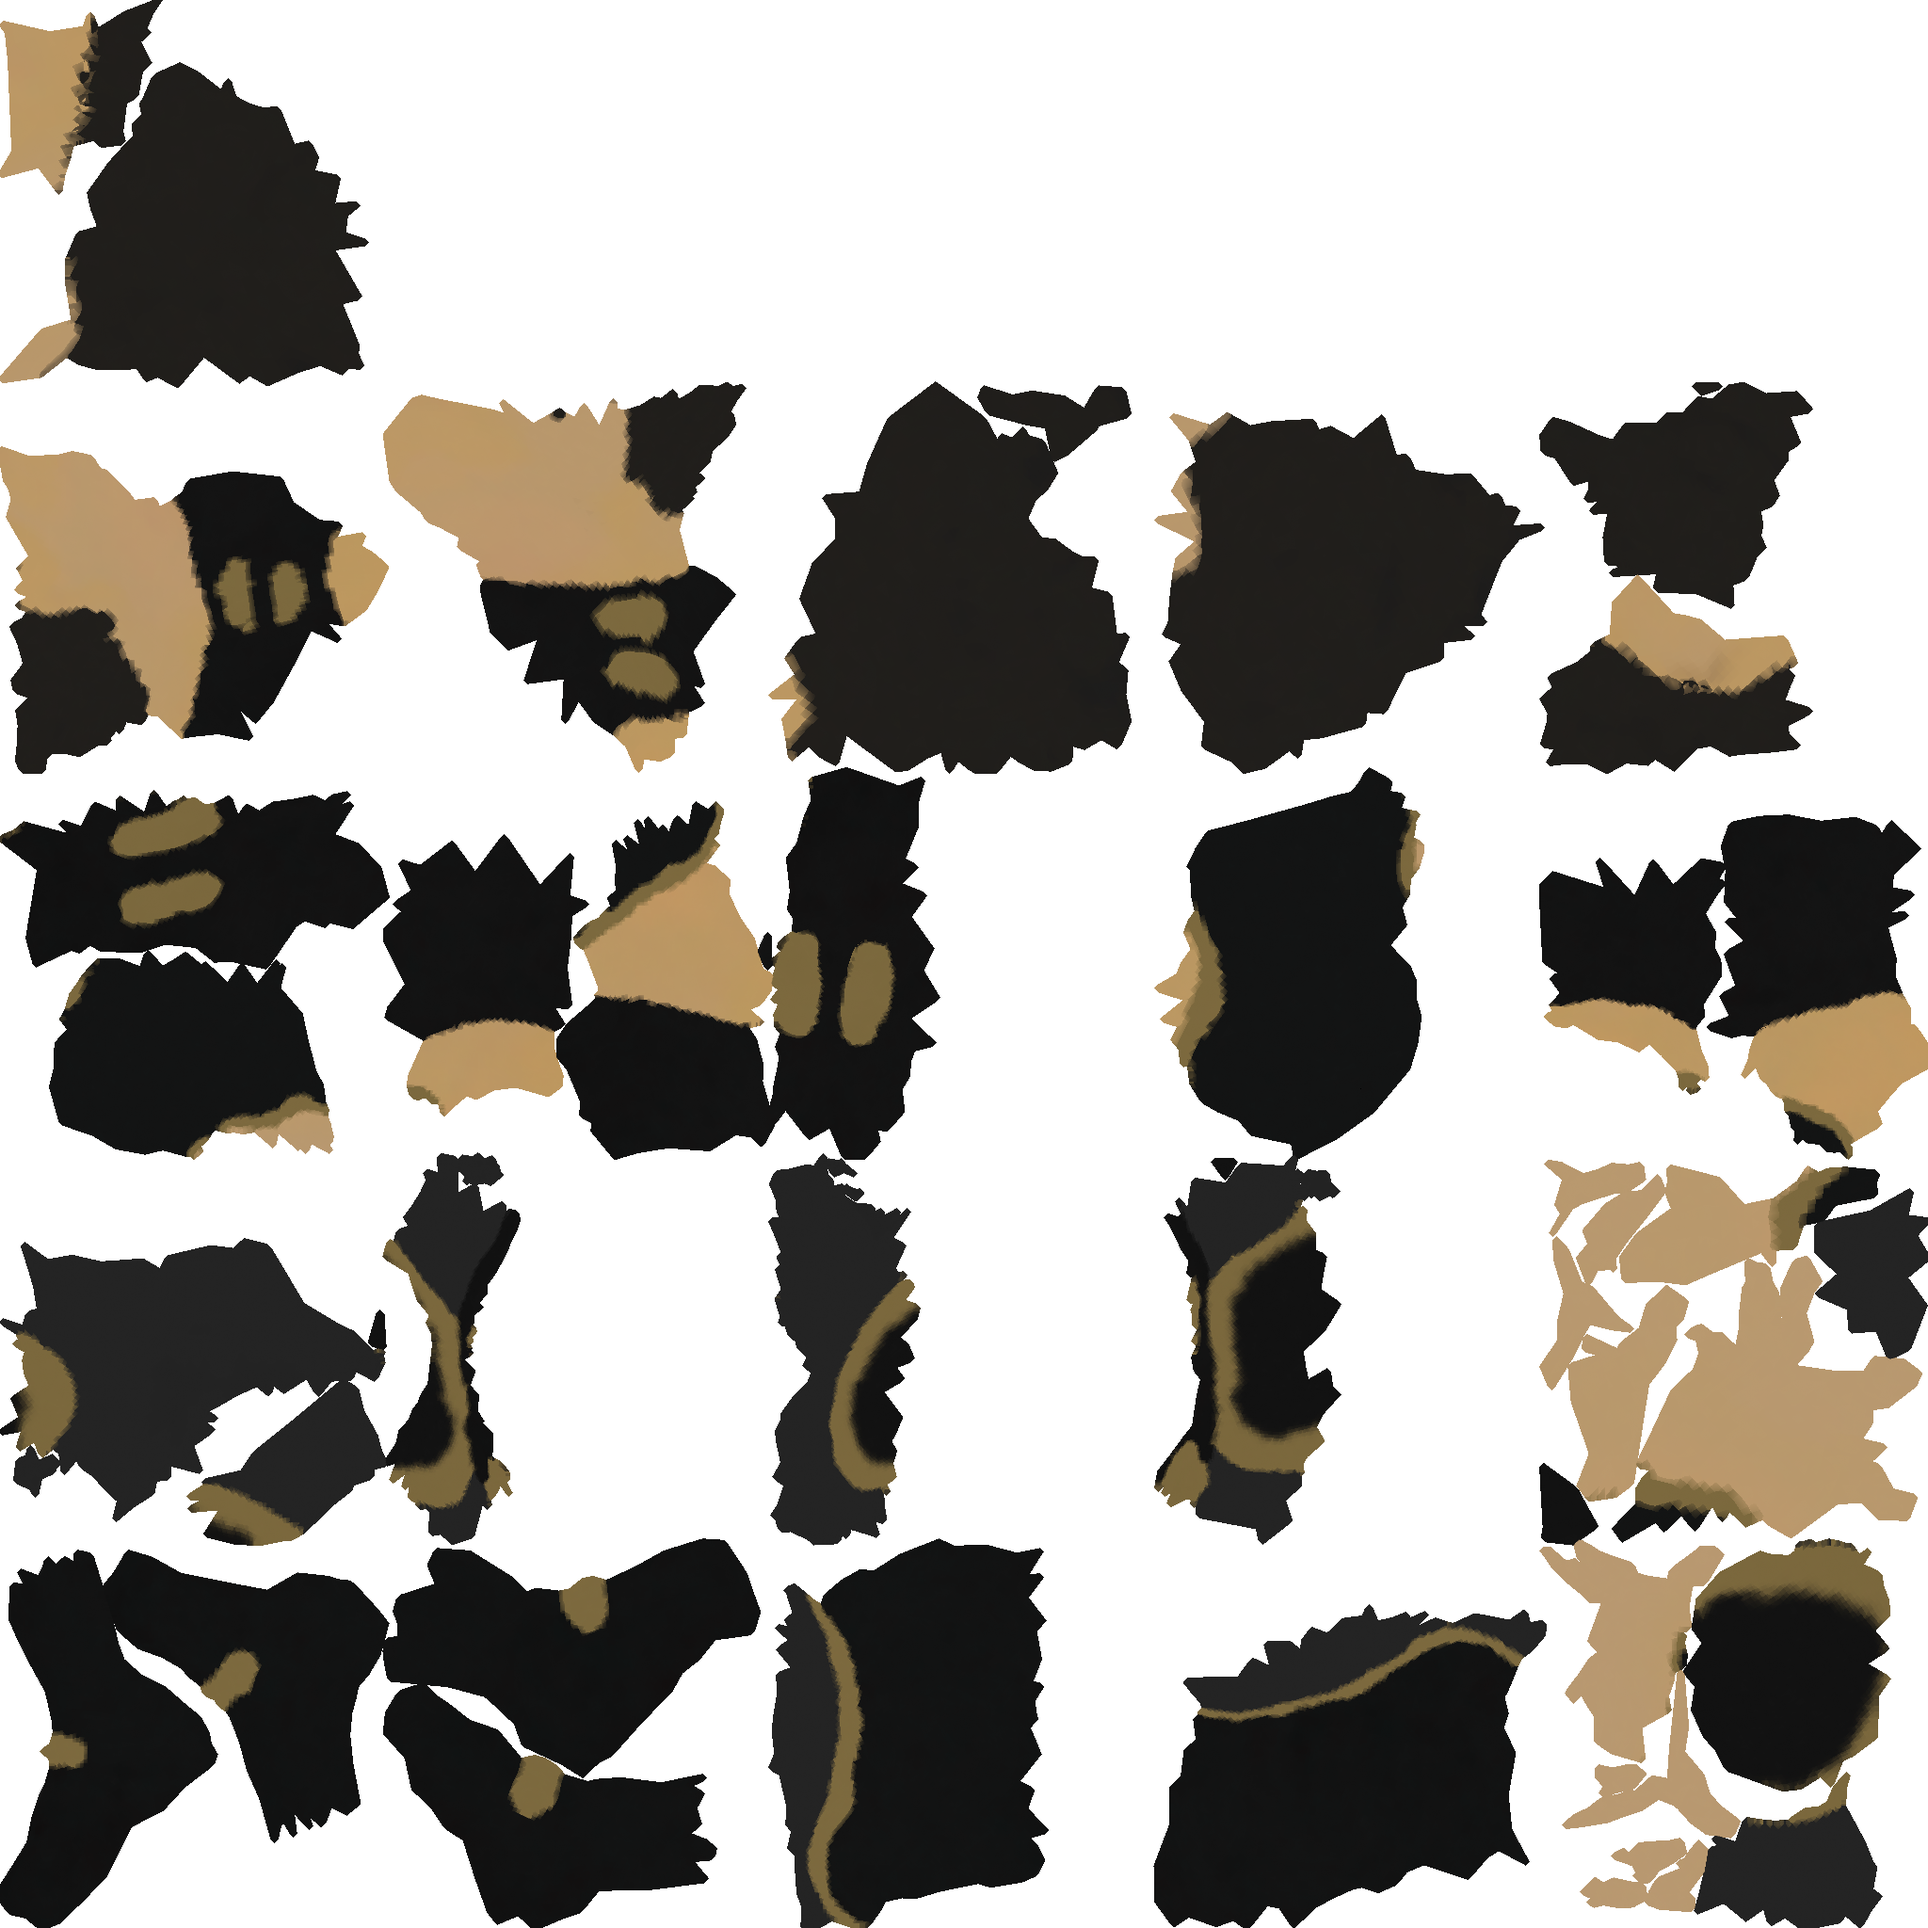
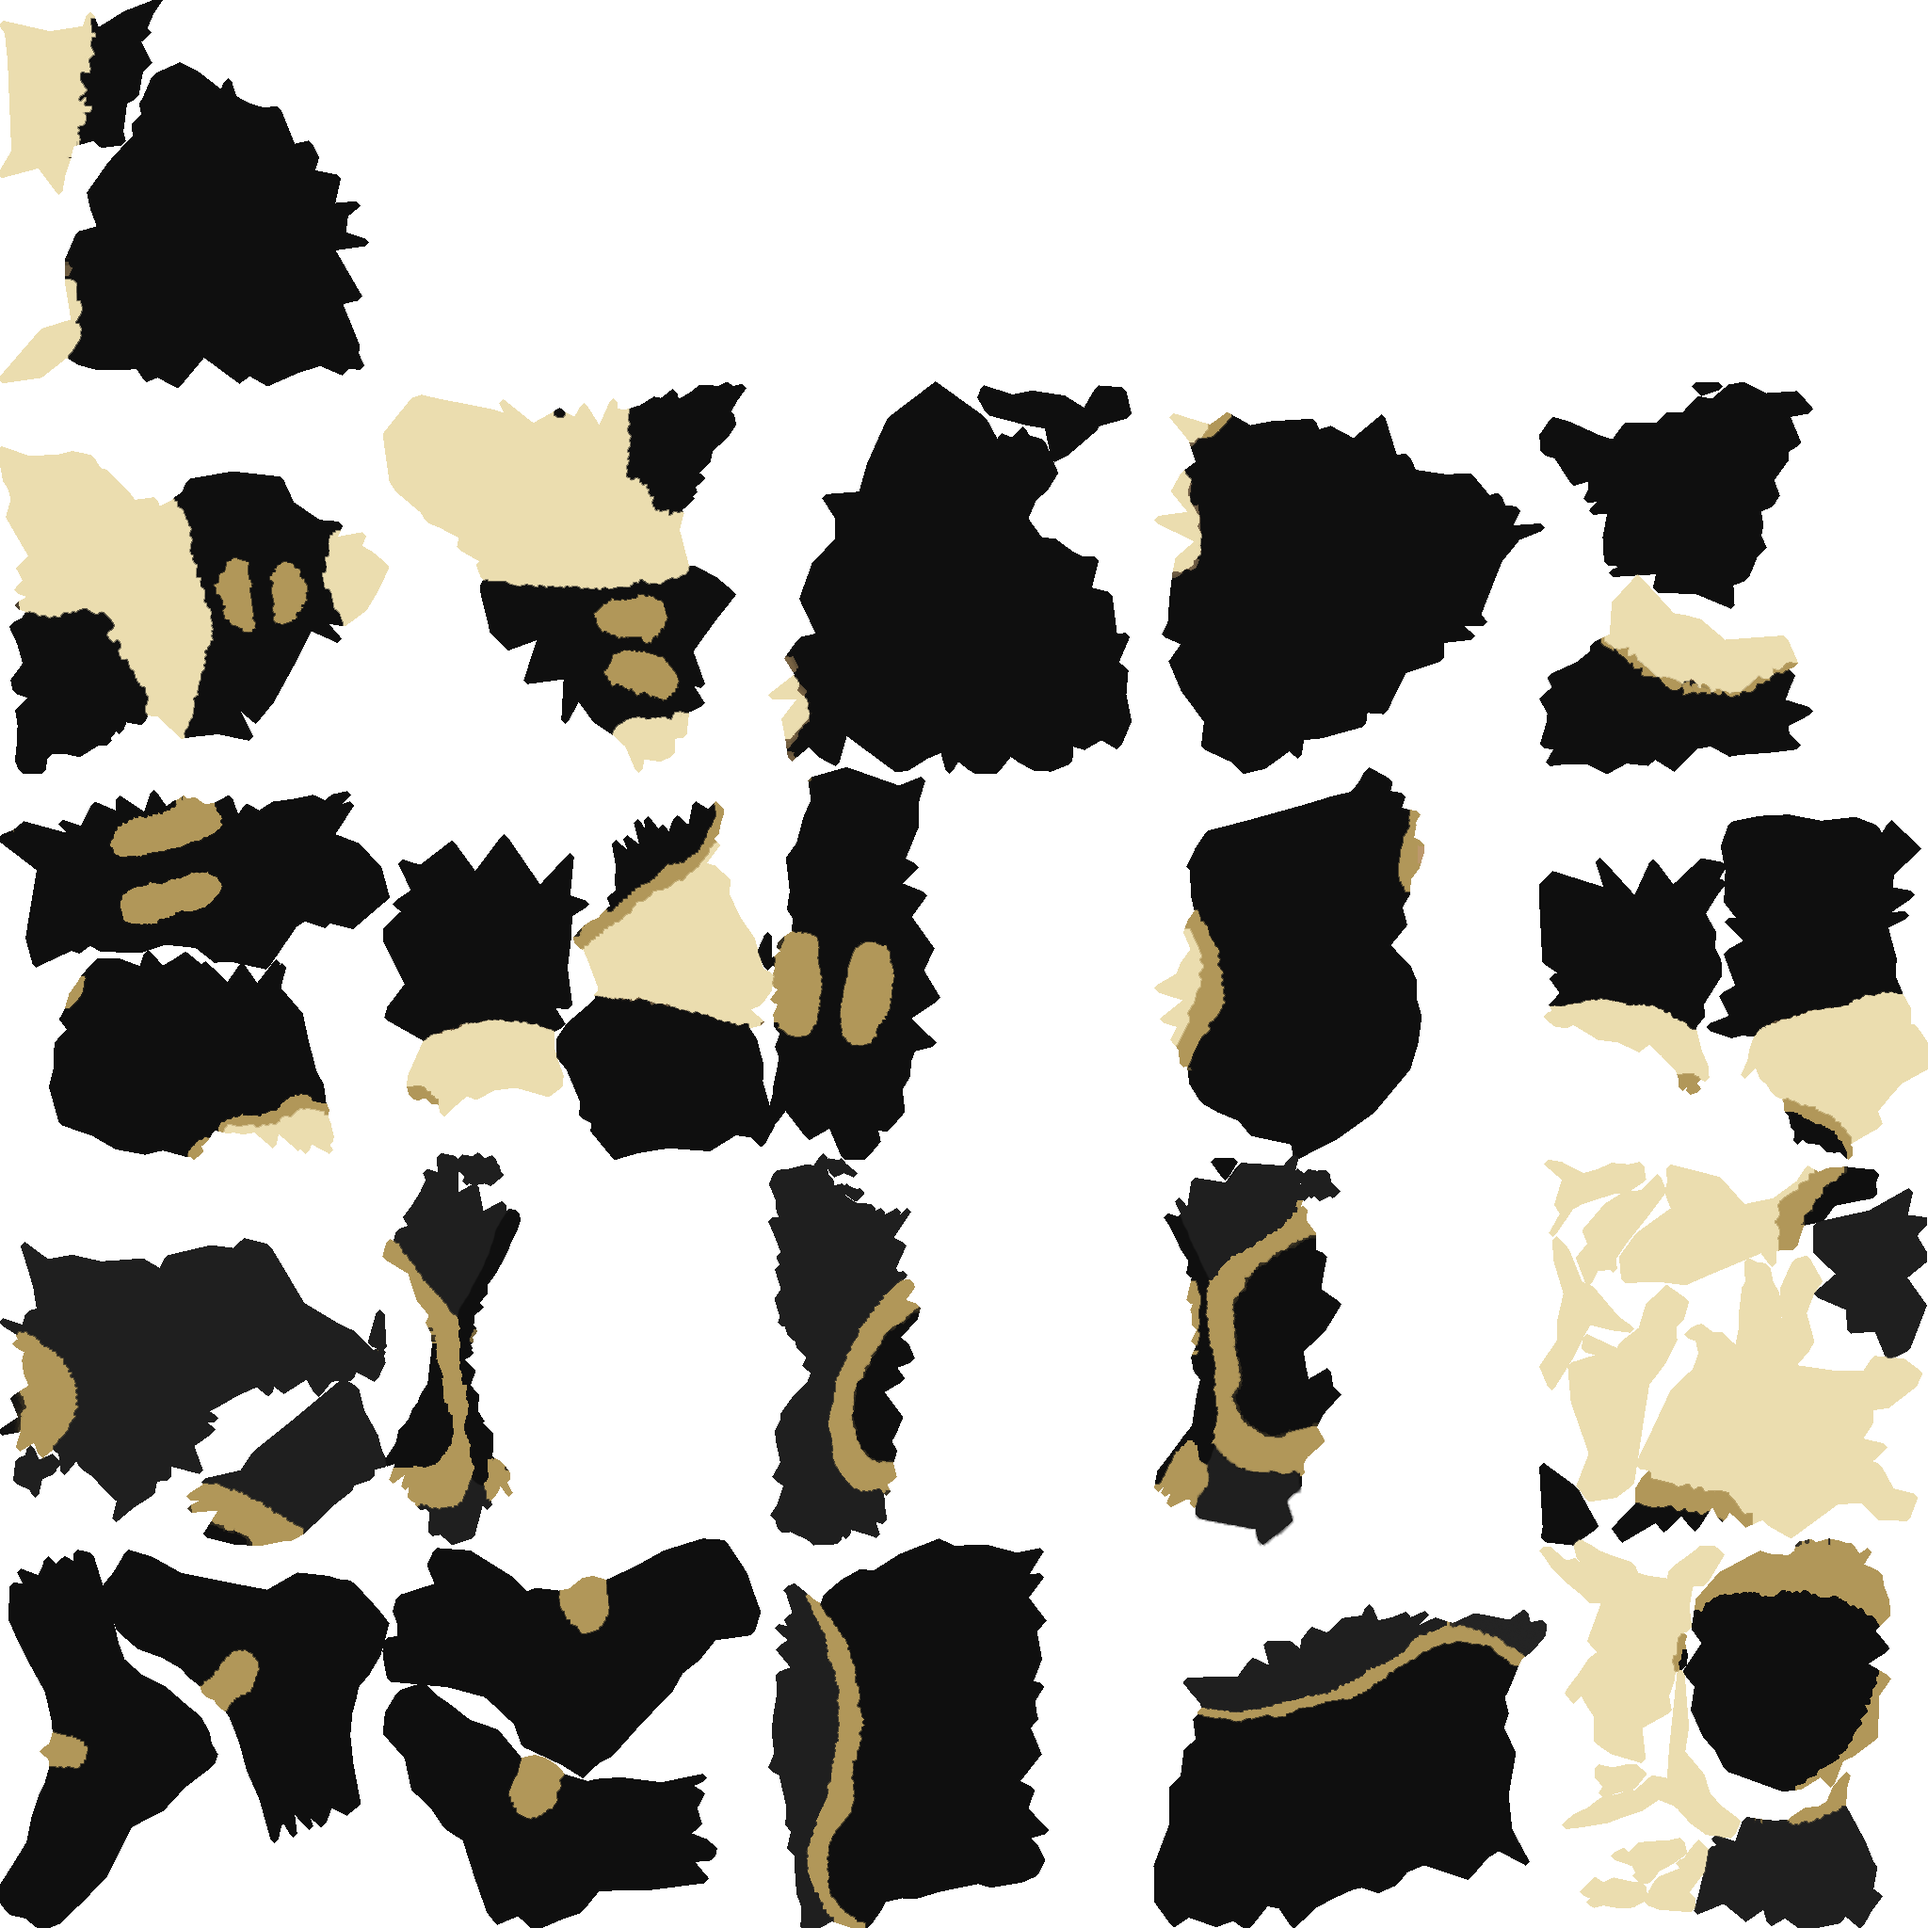
WIP
Compare with two commits back to clean up

diff --git a/index.html b/index.html
@@ -106,8 +106,8 @@
 				outlinePass.edgeStrength = 10;
 				outlinePass.edgeGlow = 0;
 				outlinePass.edgeThickness = 1;
-				// outlinePass.visibleEdgeColor = '#ffffff';
-				// outlinePass.hiddenEdgeColor = '#000000';
+				outlinePass.visibleEdgeColor.set('#ffffff');
+				outlinePass.hiddenEdgeColor.set('#000000');
 				outlinePass.selectedObjects = [];
 				composer.addPass( outlinePass );
 
@@ -137,63 +137,68 @@
 				};
 
 				// Spheres
-				var geometry = new THREE.SphereGeometry( 32, 32, 32 );
+				let geometry = new THREE.SphereGeometry( 32, 32, 32 );
 				let threeTone = new THREE.TextureLoader().load( 'textures/threeTone.jpg' );
 				let fourTone = new THREE.TextureLoader().load( 'textures/fourTone.jpg' );
 				let fiveTone = new THREE.TextureLoader().load( 'textures/fiveTone.jpg' );
 				let sixTone = new THREE.TextureLoader().load( 'textures/sixTone.jpg' );
-				var material = new THREE.MeshToonMaterial( {
-										color: 0xff0000,
-										gradientMap: threeTone,
-										specular: '#111111',
-										reflectivity: 0.2,
-										shininess: 0
-									} );
-				var sphere = new THREE.Mesh( geometry, material );
-				sphere.position.x += -96*2;
+
+				// The pixel shader removes the need for MeshToonMaterial as it creates brightness steps
+				function sphereMaterial(color) { 
+					return new THREE.MeshToonMaterial( {
+						color: color,
+						gradientMap: fourTone,
+						specular: '#111111',
+						reflectivity: 0.2,
+						shininess: 0
+					} );
+				}
+				let sphere = new THREE.Mesh( geometry, sphereMaterial(0xCC3D3D) );
+				sphere.position.x += -96*2.5;
 				sphere.position.y += 200;
+				outlinePass.selectedObjects.push(sphere);
 				scene.add( sphere );
-				material = new THREE.MeshToonMaterial( {
-										color: 0xff7f00,
-										gradientMap: fourTone,
-										specular: '#111111',
-										reflectivity: 0.2,
-										shininess: 0
-									} );
-				sphere = new THREE.Mesh( geometry, material );
-				sphere.position.x += -64*2;
+
+				sphere = new THREE.Mesh( geometry, sphereMaterial(0xCC6D3D) );
+				sphere.position.x += -64*2.5;
 				sphere.position.y += 200;
+				outlinePass.selectedObjects.push(sphere);
 				scene.add( sphere );
-				material =  new THREE.MeshToonMaterial( {
-										color: 0xffff00,
-										gradientMap: fiveTone,
-										specular: '#111111',
-										reflectivity: 0.2,
-										shininess: 0
-									} );
-				sphere = new THREE.Mesh( geometry, material );
-				sphere.position.x += -32*2;
+
+				sphere = new THREE.Mesh( geometry, sphereMaterial(0xCC853D) );
+				sphere.position.x += -32*2.5;
 				sphere.position.y += 200;
+				outlinePass.selectedObjects.push(sphere);
 				scene.add( sphere );
-				material = new THREE.MeshPhongMaterial ( {color: 0x00ff00} );
-				sphere = new THREE.Mesh( geometry, material );
+
+				sphere = new THREE.Mesh( geometry, sphereMaterial(0xCC9C3D) );
 				sphere.position.x += 0;
 				sphere.position.y += 200;
+				outlinePass.selectedObjects.push(sphere);
 				scene.add( sphere );
-				material = new THREE.MeshLambertMaterial( {color: 0x0000ff} );
-				sphere = new THREE.Mesh( geometry, material );
-				sphere.position.x += 32*2;
+
+				sphere = new THREE.Mesh( geometry, sphereMaterial(0xCCB43D) );
+				sphere.position.x += 32*2.5;
 				sphere.position.y += 200;
+				outlinePass.selectedObjects.push(sphere);
 				scene.add( sphere );
-				material = new THREE.MeshDepthMaterial( {color: 0x2e2b5f} );
-				sphere = new THREE.Mesh( geometry, material );
-				sphere.position.x += 64*2;
+
+				sphere = new THREE.Mesh( geometry, sphereMaterial(0x55CC3D) );
+				sphere.position.x += 64*2.5;
 				sphere.position.y += 200;
+				outlinePass.selectedObjects.push(sphere);
 				scene.add( sphere );
-				material = new THREE.MeshBasicMaterial( {color: 0x8b00ff} );
-				sphere = new THREE.Mesh( geometry, material );
-				sphere.position.x += 96*2;
+
+				sphere = new THREE.Mesh( geometry, sphereMaterial(0x3D85CC) );
+				sphere.position.x += 96*2.5;
 				sphere.position.y += 200;
+				outlinePass.selectedObjects.push(sphere);
+				scene.add( sphere );
+
+				sphere = new THREE.Mesh( geometry, sphereMaterial(0x903DCC) );
+				sphere.position.x += 128*2.5;
+				sphere.position.y += 200;
+				outlinePass.selectedObjects.push(sphere);
 				scene.add( sphere );
 
 				// Skybox

diff --git a/jsm/shaders/PixelShader.js b/jsm/shaders/PixelShader.js
@@ -72,7 +72,7 @@ var PixelShader = {
 		"color[3] = 40.0/360.0;",
 		"color[4] = 50.0/360.0;",
 		"color[5] = 110.0/360.0;",
-		"color[6] = 200.0/360.0;",
+		"color[6] = 210.0/360.0;",
 		"color[7] = 275.0/360.0;",
 		// Find the color in the key that is closest to the rendered pixel
 		"float minDistance = abs(hsvColor.x - color[0]);",
@@ -86,6 +86,7 @@ var PixelShader = {
 		"  }",
 		"}",
 		// Brightness key for limited values brightness can be
+		// TODO: Change this to 4 colors to match the four tones of the material
 		"float brightness[5];",
 		"brightness[0] = 0.4;",
 		"brightness[1] = 0.5;",
@@ -97,6 +98,7 @@ var PixelShader = {
 		"minDistance = abs(compressedBrightness - brightness[0]);",
 		"float closestBrightness = color[0];",
 		"float hueShift;",
+		"float saturationShift;",
 		"for(int i = 0; i < 5; i++) {",
 		"  currentDistance = abs(compressedBrightness - brightness[i]);",
 		"  if(currentDistance <= minDistance) {",
@@ -104,14 +106,17 @@ var PixelShader = {
 		"    closestBrightness = brightness[i];",
 		//   Shift the hue by 7 degreess (-14, -7, 0, +7, +14) towards blue if it's darker or yellow if it's lighter
 		"    hueShift = float(i-2) * (7.0/360.0);",
+		//   Shift the hue by 5 percent (-0.1, -0.05, 0, -0.05, -0.1) towards grey if brighter or darker
+		"    saturationShift = -abs(float(i-2)) * 0.05;",
 		"  }",
 		"}",
-		"if (hsvColor.y < 0.3)",
-		// If the saturation is low, then the color is between black and white on the greyscale
-		"  gl_FragColor = vec4(hsv2rgb(vec3(0.0, 0.0, hsvColor.z)), 1.0);",
+		// If saturation is low then color is black, grey, white, or skin and hair colors
+		"if (hsvColor.y < 0.4)",
+		"  gl_FragColor = vec4(hsv2rgb(vec3(hsvColor.x + hueShift, hsvColor.y, hsvColor.z)), 1.0);",
 		"else {",
 		// Hue should be one of the colors from the color key, saturation should be constant, and brightness should be from the brightness key
-		"  gl_FragColor = vec4(hsv2rgb(vec3(closestColor + hueShift, 0.7, closestBrightness)), 1.0);",
+		// TODO: Switch back to this: "  gl_FragColor = vec4(hsv2rgb(vec3(closestColor + hueShift, 0.7 + saturationShift, closestBrightness)), 1.0);",
+		"  gl_FragColor = vec4(hsv2rgb(vec3(closestColor + hueShift, 0.7 + saturationShift, closestBrightness)), 1.0);",
 		"}",
 		"}"
 
